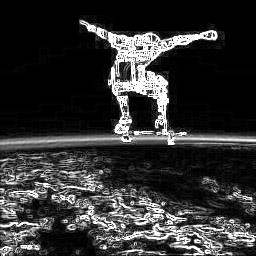
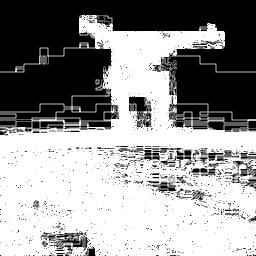
debugged transpose function so horizontal seams work

diff --git a/image.py b/image.py
@@ -58,13 +58,15 @@ class sc_Image:
 
     def transpose (self) :
         new_pix = {}
-        for i in range(image.width):
-            for j in range(image.height):
-                new_pix[(j,i)]= Pixel( (j,i), self.pixels[(i,j)] )
+        for i in range(self.width):
+            for j in range(self.height):
+                new_pix[(j,i)]= Pixel( (j,i), self.pixels[(i,j)].rgb )
         self.pixels = new_pix
         tmp = self.height
         self.height = self.width
         self.width = tmp        
+
+
 
     def get_neighbors_simple (self, pos, pixels):
 
@@ -263,7 +265,7 @@ class sc_Image:
     def shrink (self, to_remove, orientation = "vertical", energy = 'e1', alg = 'dijk'):
 
         if orientation == 'horizontal' :
-            self.transpose
+            self.transpose()
 
         for i in range(to_remove) :
             self.set_energies (energy)
@@ -273,7 +275,7 @@ class sc_Image:
             print i
 
         if orientation == 'horizontal' :
-            self.transpose        
+            self.transpose()        
 
     
 

diff --git a/main.py b/main.py
@@ -1,10 +1,10 @@
 import image
 
-im = image.sc_Image.from_filepath2("dolphin.jpg")
+im = image.sc_Image.from_filepath2("skateboarder.jpg")
 
-im.to_energy_pic('dolphin_energy2.jpg')
-im.shrink(50, alg = 'dyn')
+im.to_energy_pic('skateboarder_energy2.jpg')
+im.shrink(50, alg = 'dyn', orientation = 'horizontal')
 # image.shrink( 'horizontal', 300 , 'e1', 'dyn')
 
-im.to_jpeg("dolphin_kroon.jpg")
+im.to_jpeg("skateboarder_horz.jpg")
 
